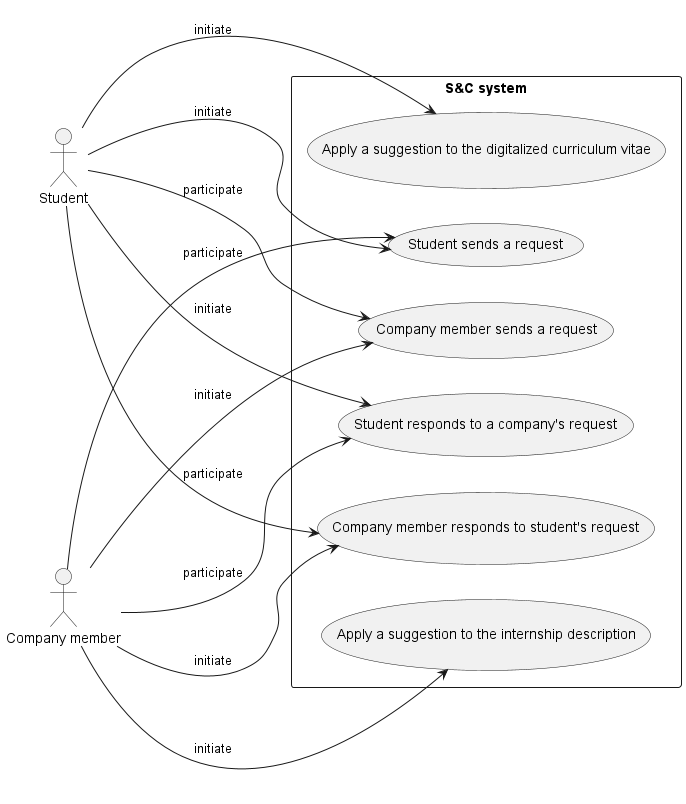
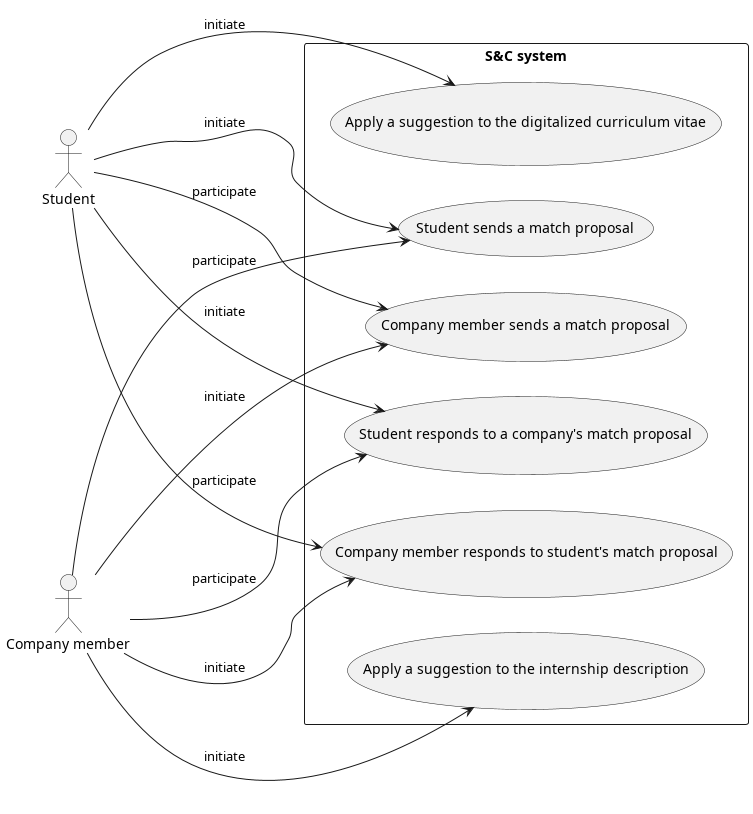
refactor: replace 'request' with 'match proposal'

diff --git a/RASD/Specific_requirements/main.tex b/RASD/Specific_requirements/main.tex
@@ -31,7 +31,7 @@ Below there are the functional requirements that the system must guarantee.
     \item The system must permit universities members to register their universities.
     \item The system must permit companies members to register their companies.
     \item The system must allow users to log in by inserting their credentials.
-    \item The system must allow student to publish his CV.
+    \item The system must allow student to publish their CV.
     \item The system must allow companies members to publish internships.
     \item The system shall inform students when suitable internships are available through recommendation.
     \item The system shall inform companies members about the availability of student CVs corresponding to their needs, through recommendation.
@@ -558,9 +558,8 @@ Below there is the use cases diagram. For clarity, it has been divided into mult
 
 }
 
-% student sends a request
 \usecase
-{Student sends a request}
+{Student sends a match proposal}
 {
     \begin{itemize}
         \item Student   
@@ -590,10 +589,8 @@ Below there is the use cases diagram. For clarity, it has been divided into mult
 }
 {}
 
-% company member sends a request
-
 \usecase
-{Company member sends a request}
+{Company member sends a match proposal}
 {
     \begin{itemize}
         \item Student   
@@ -625,16 +622,14 @@ Below there is the use cases diagram. For clarity, it has been divided into mult
 % Accept/refuse a matching proposal made by the company 
 
 \usecase 
-{Student responds to company's request}
+{Student responds to company's match proposal}
 {
     \begin{itemize}
         \item Student
         \item Company member
     \end{itemize}
 } 
-{
-The student is logged into the platform's homepage.
-}
+{The student is logged into the platform's homepage where the company's request is visible.}
 {
     \begin{enumerate}
         \item The student views the proposal from the company and selects either the \textit{"Accept"} or \textit{"Refuse"} button.
@@ -651,7 +646,7 @@ The internship is closed. An error message appears on the screen and the system 
 }
 {}
 
-\usecase{Company member responds to student's request}
+\usecase{Company member responds to student's match proposal}
 {
     \begin{itemize}
         \item Company member
@@ -735,7 +730,7 @@ The internship is closed. An error message appears on the screen and the system 
         \item The private chat is deleted.
     \end{enumerate}
 }
-{The notification arrives to the company member. If the student rejects the offer, the chat is no more available: any access will show an error message.}
+{The notification arrives to the company member. The chat is no more available.}
 {}
 {}
 

diff --git a/RASD/Overall_description/main.tex b/RASD/Overall_description/main.tex
@@ -16,7 +16,7 @@
           He clicks the \textit{"Create your CV"} button to prepare his CV, following the on-screen guidelines.  
           As a master's student in computer science, Marco marks his profile as open to software engineering internship opportunities.
 
-    \item\textbf{ Sending a request  }
+    \item\textbf{ Sending a match proposal  }
     
           Marco logs into the platform, eager to secure an internship.  
           On the homepage, he notices a notification: \textit{"Available software engineering internship at Code S.P.A"}.  
